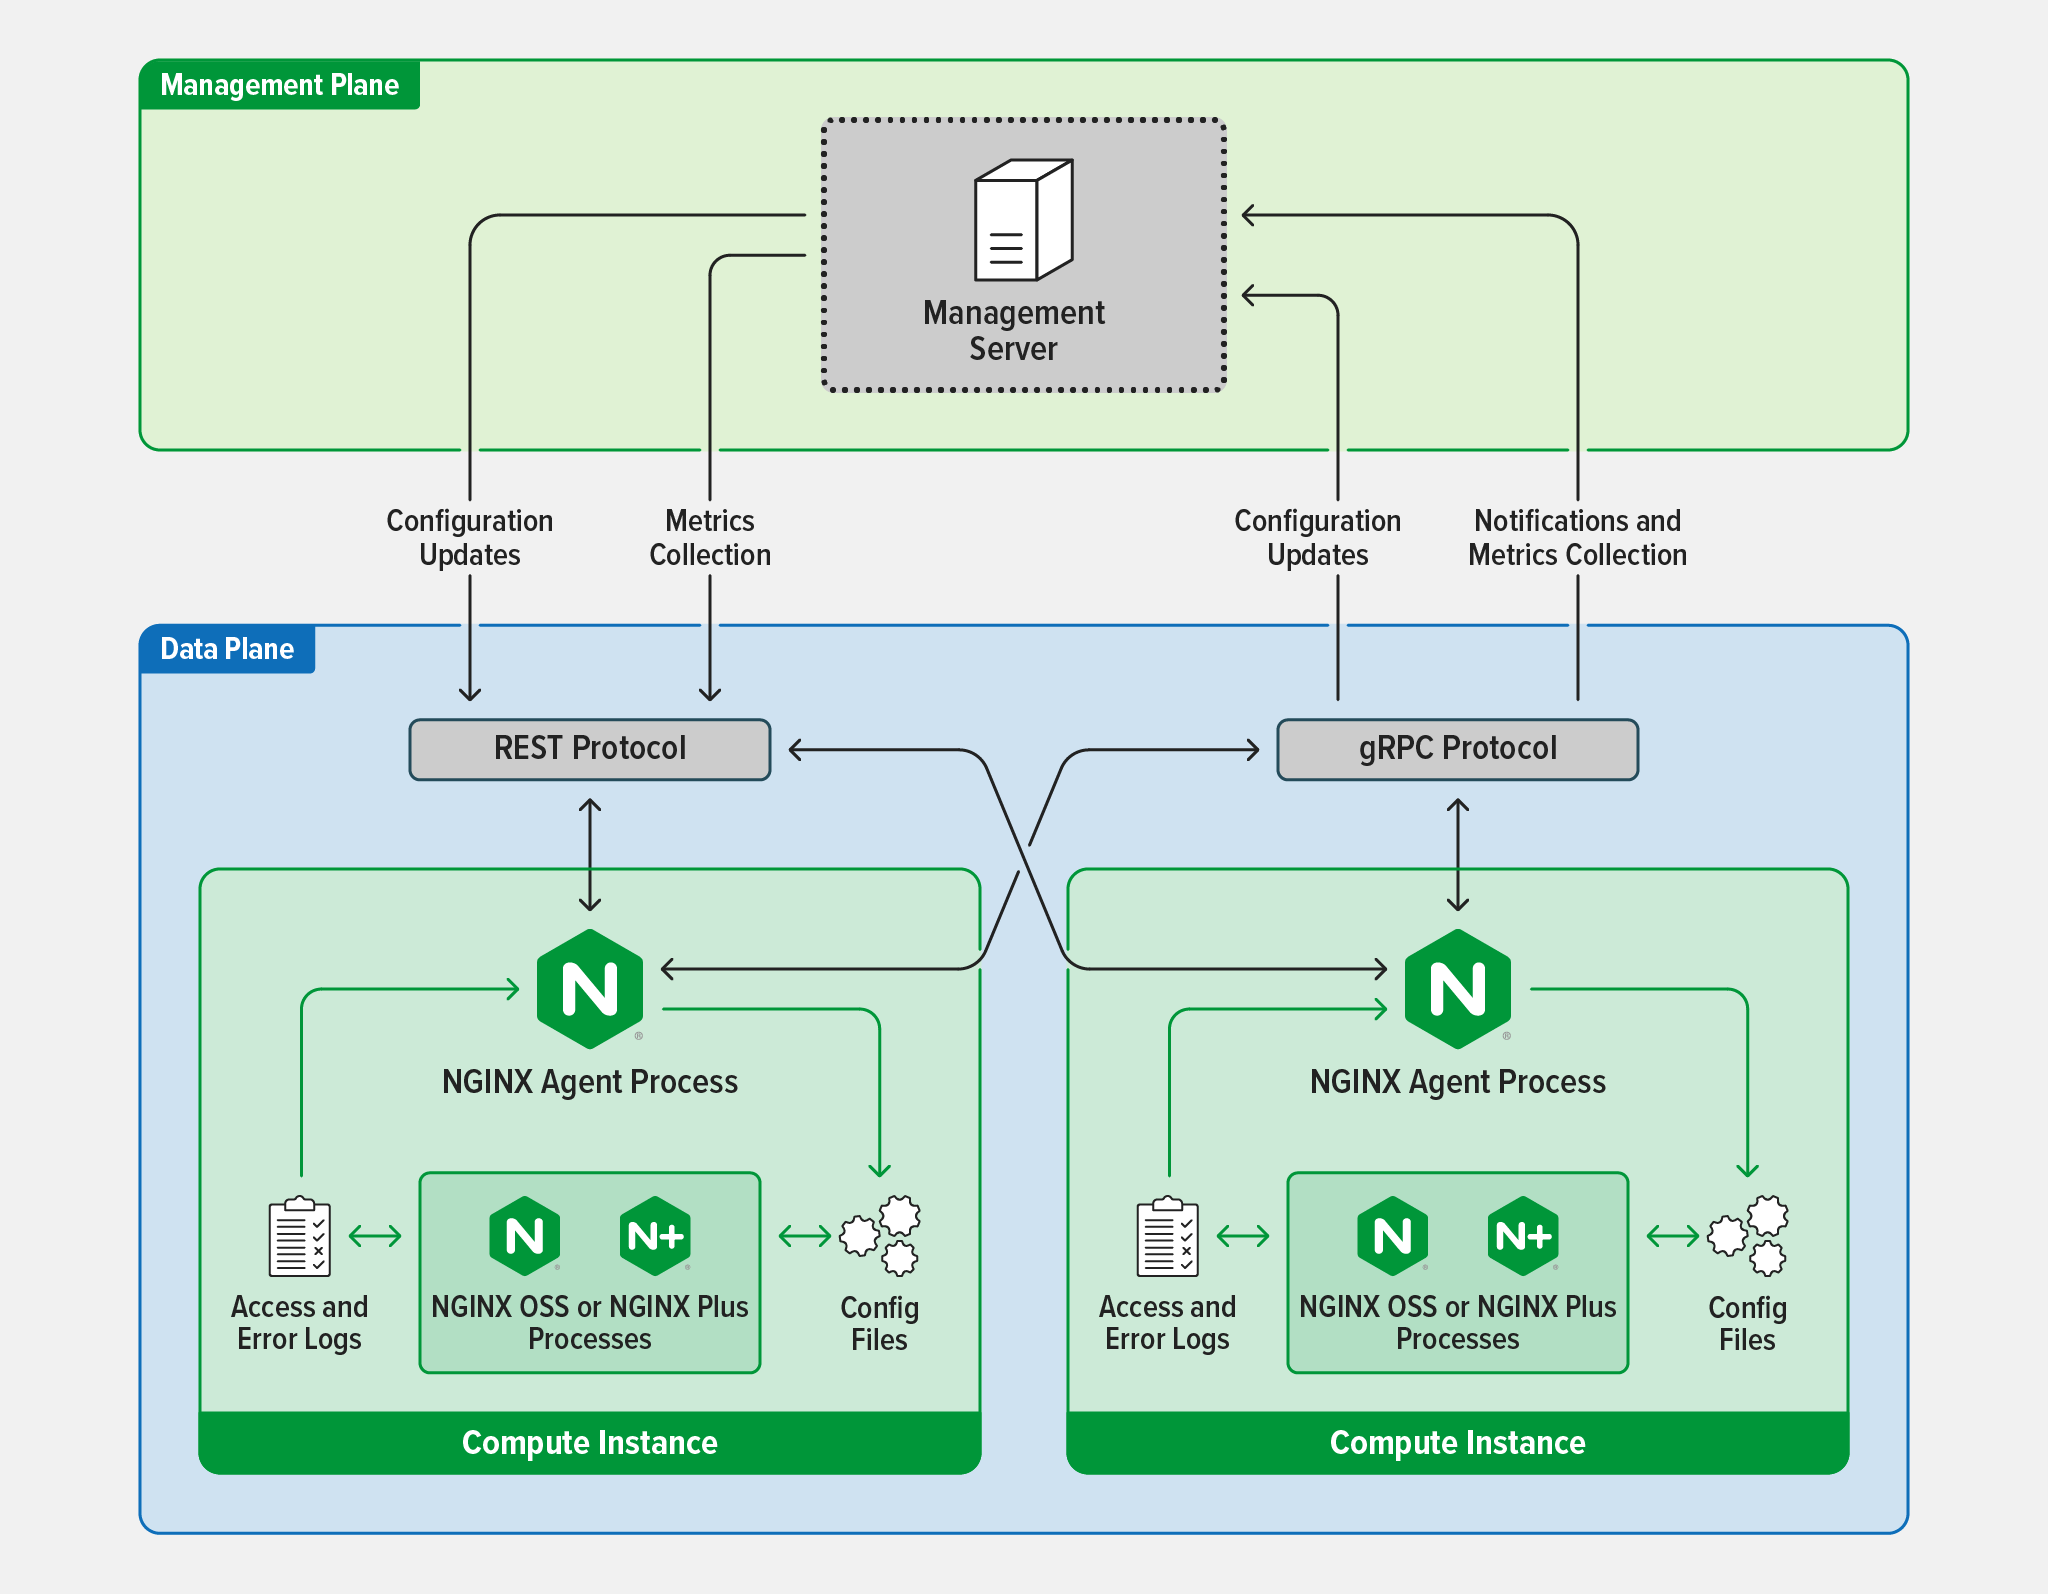
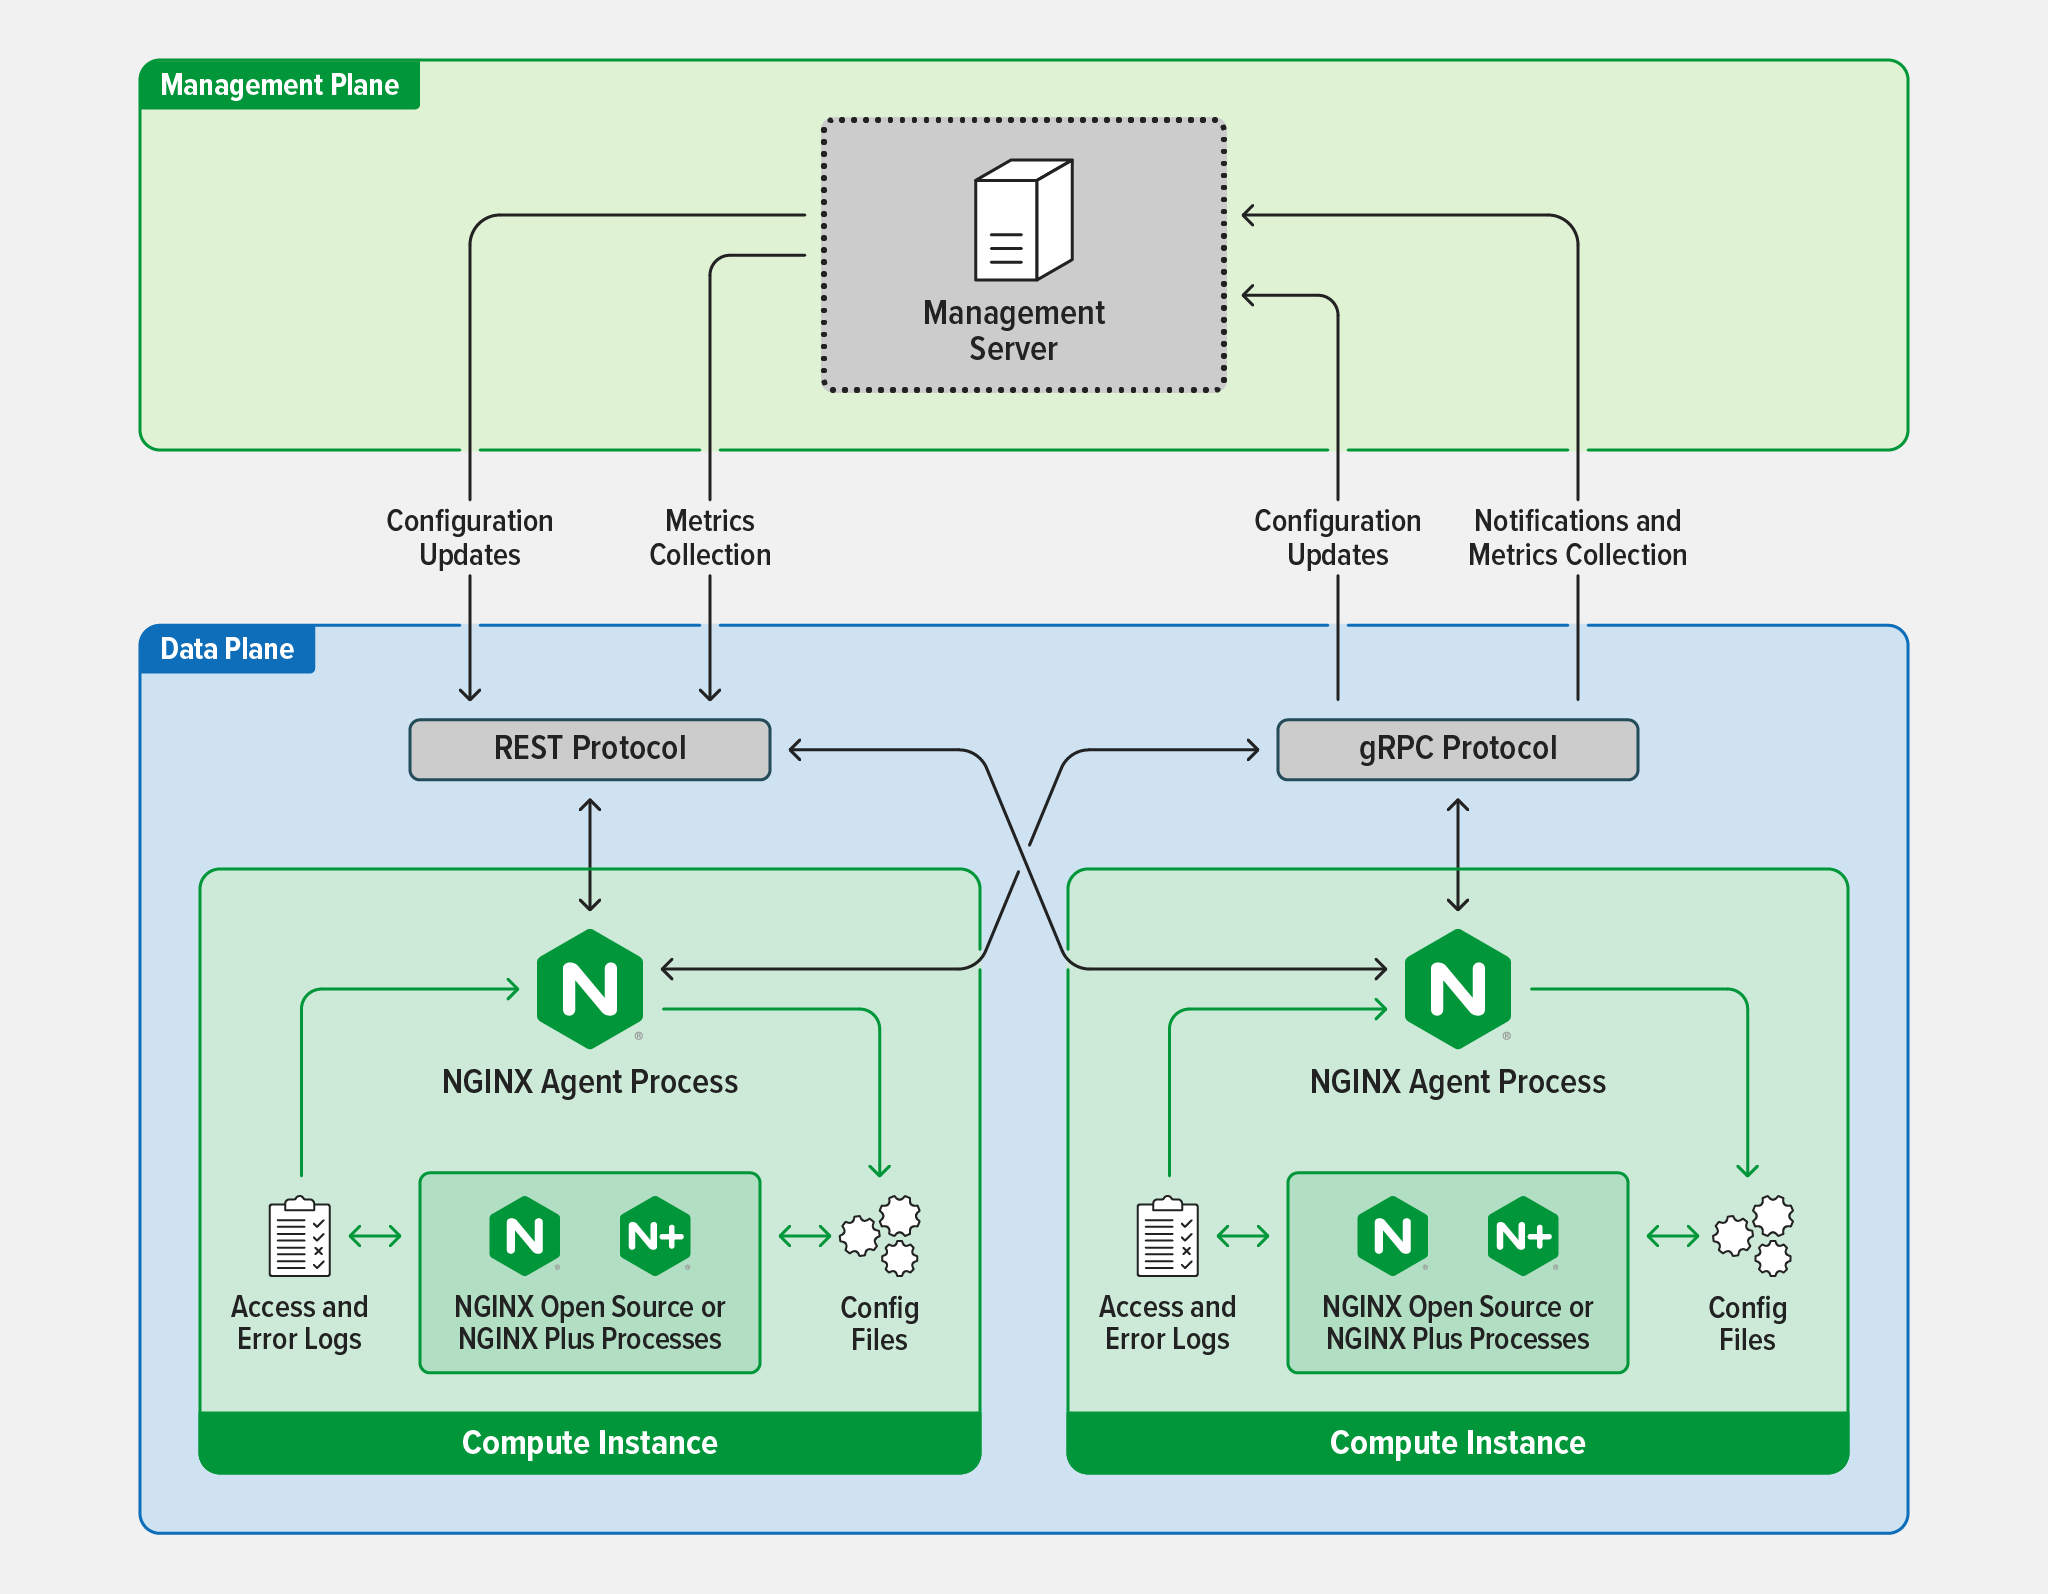
updated flow diagram to appoved "nginx open source" verbiage, fixed table of contents broken link to mock control plane section

diff --git a/README.md b/README.md
@@ -21,7 +21,7 @@ NGINX Agent is a companion daemon for your NGINX Open Source or NGINX Plus insta
   - [Logging](#logging)
 - [Getting Started with NGINX Agent](#getting-started-with-nginx-agent)
   - [Installing NGINX and NGINX Agent](#installing-nginx-and-nginx-agent)
-  - [Starting the Mock Control Plane](#starting-the-mock-control-plane)
+  - [Starting the gRPC Mock Control Plane](#starting-the-grpc-mock-control-plane)
   - [NGINX Agent Settings](#nginx-agent-settings)
   - [Starting NGINX Agent](#starting-nginx-agent)
 - [Development Environment Setup](#development-environment-setup)
